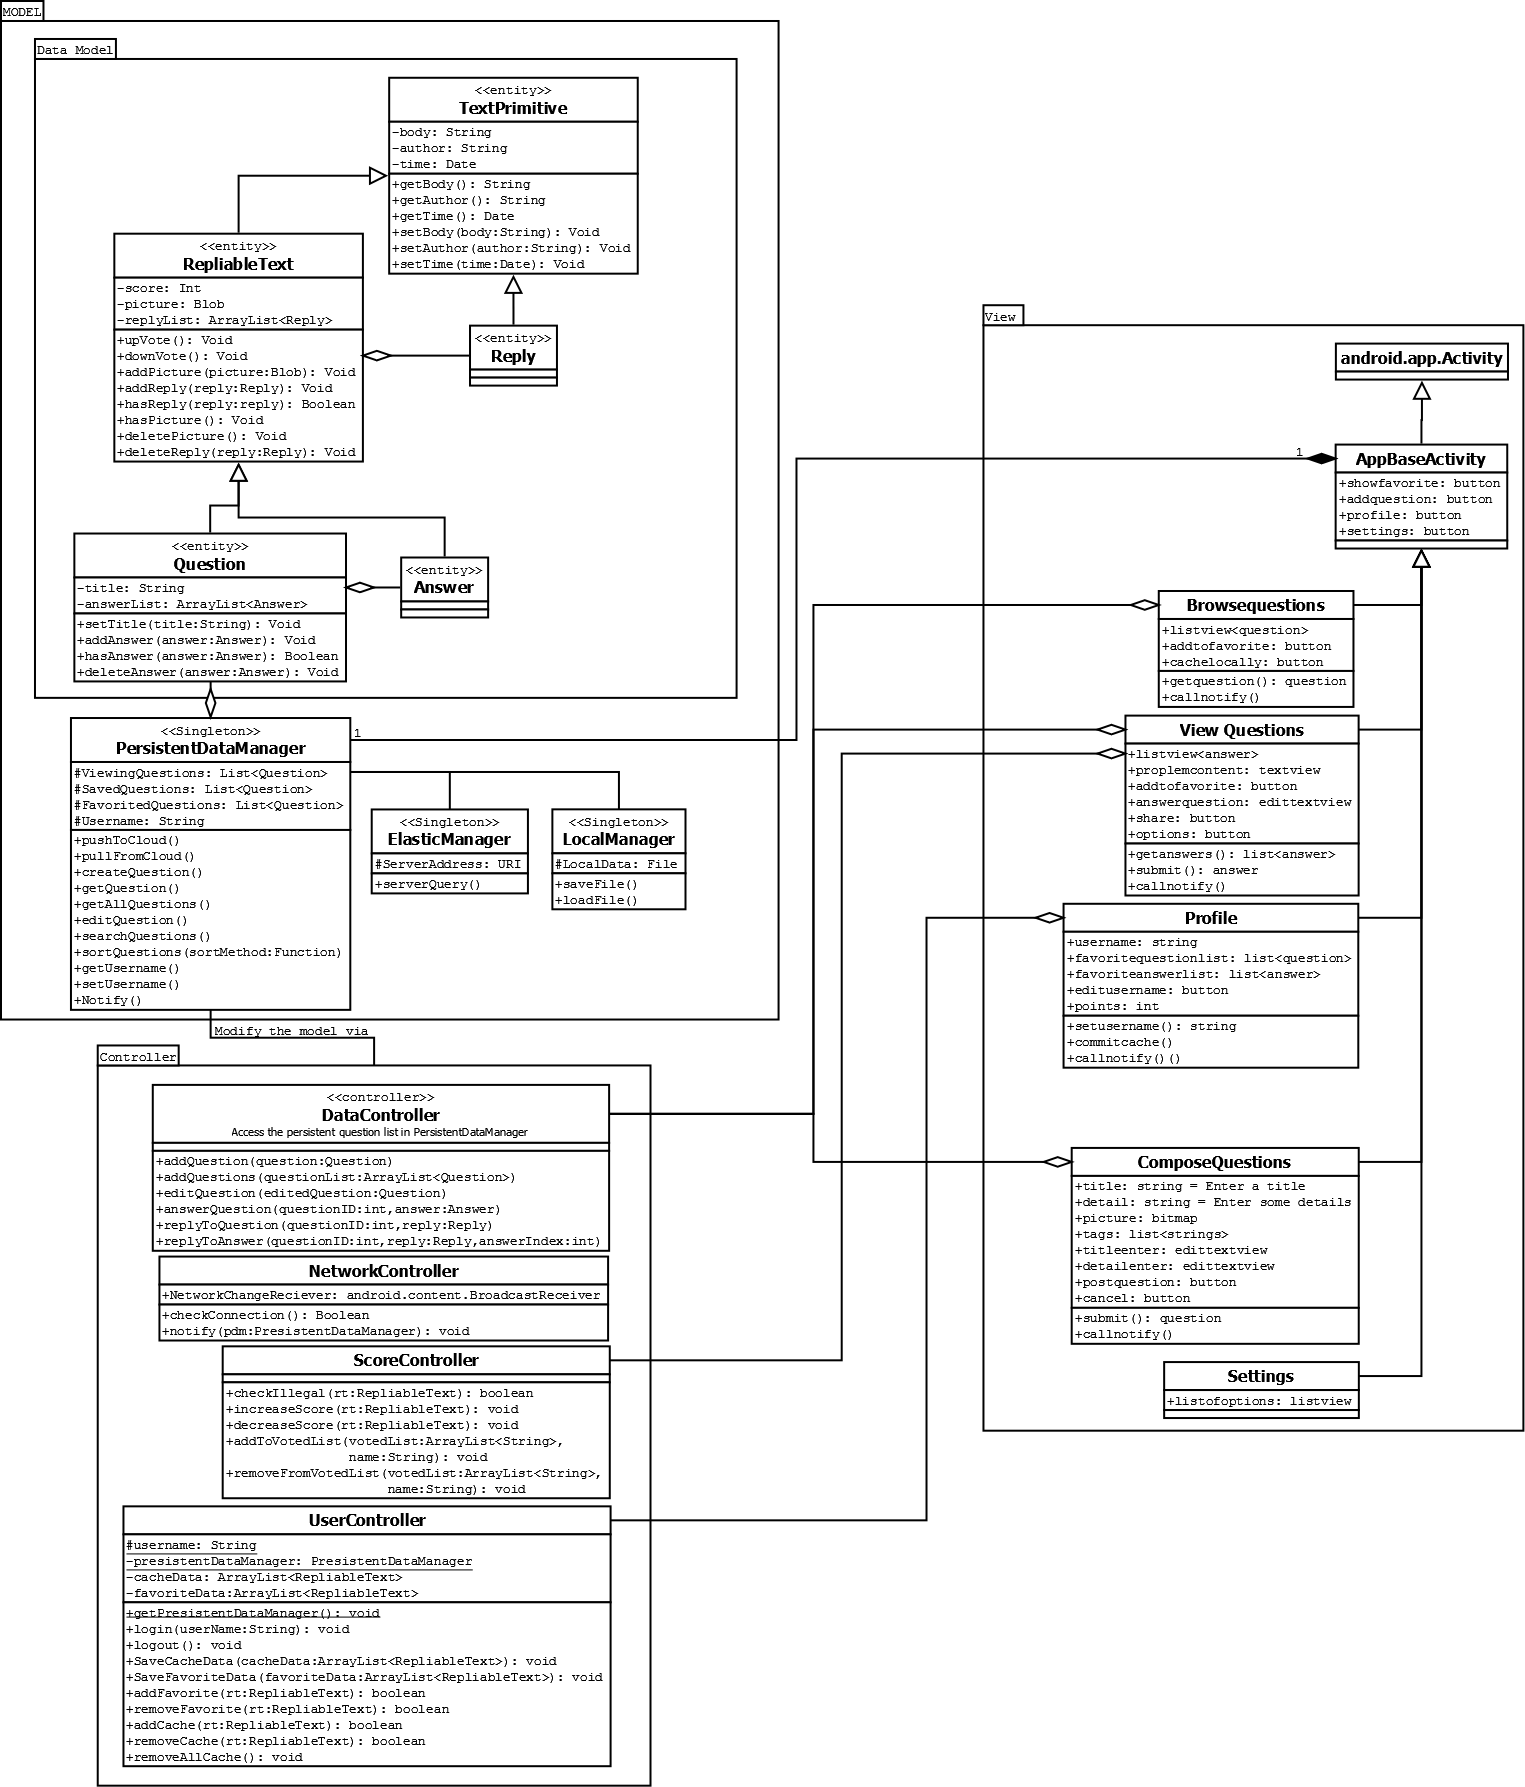
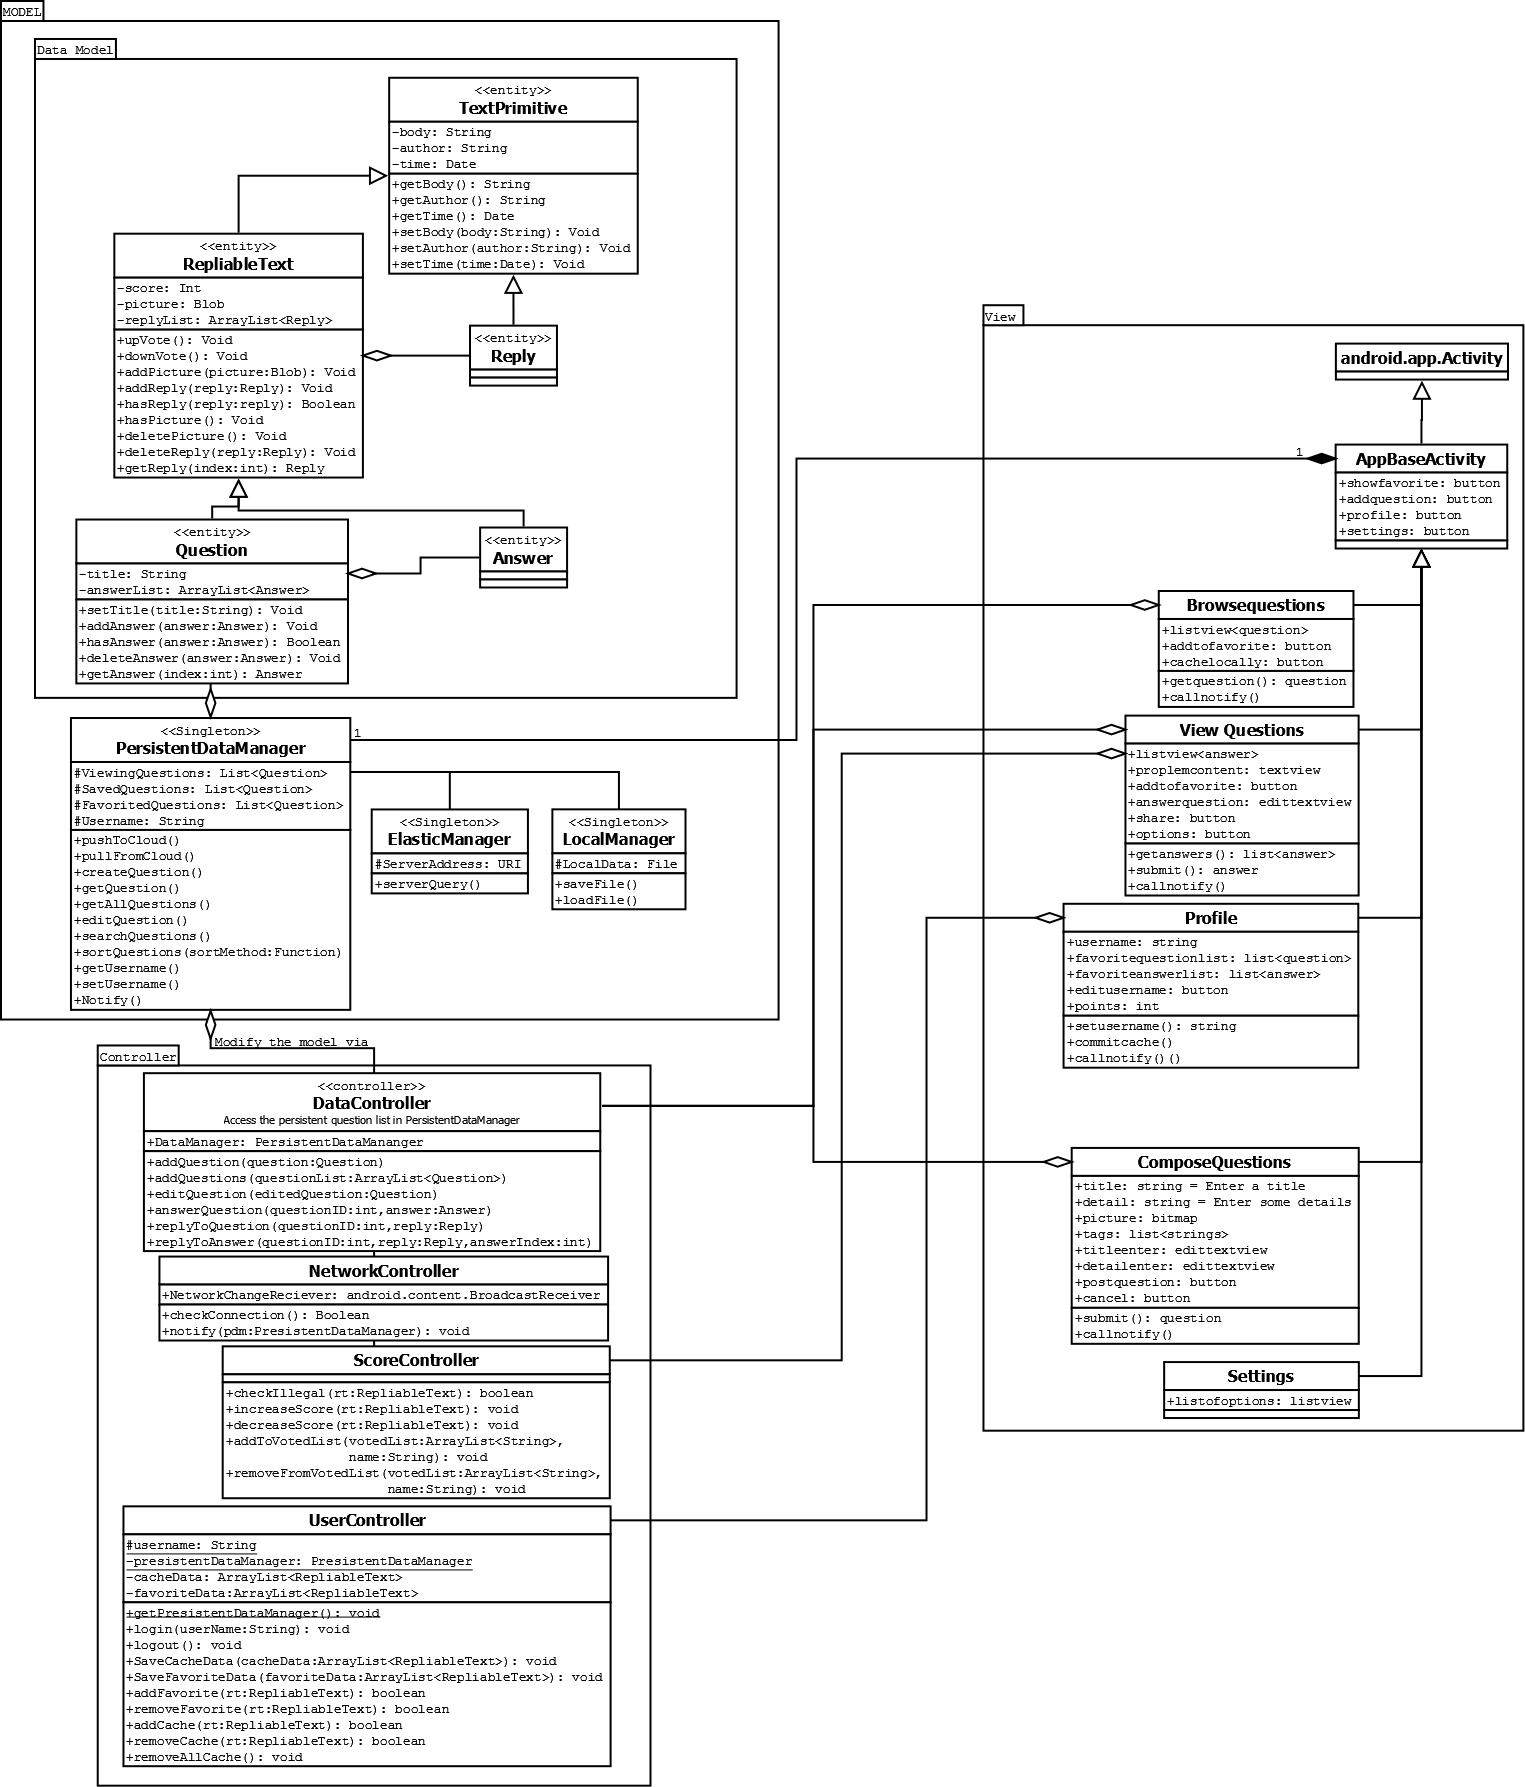
Test case 1-4 consistency update, data controller update, UML update and split testcase 1-4 to use ActivityInstrumentationTestCase2

Changed region(s): [[0.0925, 0.554, 0.5239, 0.7079], [0.0308, 0.2462, 0.3698, 0.4001]]

diff --git a/LortAnswersTestTest/src/com/github/cmput301f14t11/teamlort/test/UseCase2And3Test.java b/LortAnswersTestTest/src/com/github/cmput301f14t11/teamlort/test/UseCase2And3Test.java
@@ -1,0 +1,82 @@
+package com.github.cmput301f14t11.teamlort.test;
+
+import java.util.ArrayList;
+
+import com.github.cmput301f14t11.teamlort.Answer;
+import com.github.cmput301f14t11.teamlort.ComposeQuestionActivity;
+import com.github.cmput301f14t11.teamlort.DataController;
+import com.github.cmput301f14t11.teamlort.Question;
+import com.github.cmput301f14t11.teamlort.QuestionViewActivity;
+import com.github.cmput301f14t11.teamlort.Reply;
+import com.github.cmput301f14t11.teamlort.Model.PersistentDataManager;
+
+import android.graphics.Bitmap;
+import android.test.ActivityInstrumentationTestCase2;
+
+import junit.framework.TestCase;
+
+public class UseCase2And3Test extends ActivityInstrumentationTestCase2<QuestionViewActivity> {
+	
+	public UseCase2And3Test(String name) {
+		super(QuestionViewActivity.class);
+	}
+	
+	public void testCaseTwo(){
+		//Test case for Use Case #2: User views a question and its answers
+		PersistentDataManager dataManager = PersistentDataManager.getInstance();
+		DataController dataController = new DataController();
+		String title = "What was Lancer's noble phantasm?";
+		String desc = "His spear did weird stuff, I'm confused";
+		Question question = new Question(title);
+		question.setBody(desc);
+		dataController.addQuestion(question);
+		
+		//Title and description must be retrievable for display.
+		Question testQuestion = dataManager.getQuestion(0);
+		assertTrue("Title doesn't match title", question.getTitle() == title);
+		assertTrue("Description doesn't match desc", question.getBody() == desc);
+		
+		Answer answer = new Answer("It reverses cause and effect");
+		Answer answer2 = new Answer("Ufotable too flashy");
+		question.addAnswer(answer);
+		question.addAnswer(answer2);
+		
+		//Any answers the question has must be retrievable for display.
+		ArrayList<Answer> list1 = question.getAnswerList();
+		assertTrue("Question does not have answer", list1.get(0) == answer);
+		assertTrue("Question does not have answer2", list1.get(1) == answer2);
+	}
+	
+	public void testCaseThree(){
+		//Test case for Use Case #3: User views replies to an answer or question
+		String title = "How do I fly?";
+		String rep = "this is incredibly stupid";
+		String rep2 = "this is incredibly silly";
+		Question question = new Question(title);
+		Reply reply = new Reply(rep);
+		Reply reply2 = new Reply(rep2);
+		question.addReply(reply);
+		question.addReply(reply2);
+		//Test getting replies from a question
+		ArrayList<Reply> replies = question.getReplyList();
+		assertTrue("Answer reply doesn't match reply3", replies.get(0) == reply);
+		assertTrue("Answer reply2 doesn't match reply4", replies.get(1) == reply2);
+		
+		String rep3 = "He's going to fly for the portal again!";
+		String rep4 = "John what the heck are you doing.";
+		Reply reply3 = new Reply(rep3);
+		Reply reply4 = new Reply(rep4);
+		Answer answer = new Answer("Use the jetpack");
+		answer.addReply(reply3);
+		answer.addReply(reply4);
+		question.addAnswer(answer);
+		
+		//Test getting replies from an answer
+		Answer testAnswer = question.getAnswer(0);
+		ArrayList<Reply> replies2 = testAnswer.getReplyList();
+		assertTrue("Answer reply doesn't match reply3", replies2.get(0) == reply3);
+		assertTrue("Answer reply2 doesn't match reply4", replies2.get(1) == reply4);
+		
+	}
+	
+}

diff --git a/LortAnswersTestTest/src/com/github/cmput301f14t11/teamlort/test/UseCase1Test.java b/LortAnswersTestTest/src/com/github/cmput301f14t11/teamlort/test/UseCase1Test.java
@@ -1,0 +1,46 @@
+package com.github.cmput301f14t11.teamlort.test;
+
+import java.util.ArrayList;
+
+import com.github.cmput301f14t11.teamlort.DataController;
+import com.github.cmput301f14t11.teamlort.Question;
+import com.github.cmput301f14t11.teamlort.Model.PersistentDataManager;
+
+import android.test.ActivityInstrumentationTestCase2;
+
+public class UseCase1Test extends ActivityInstrumentationTestCase2<BrowseQuestionsActivity> {
+
+	public UseCase1Test() {
+		super(BrowseQuestionsActivity.class);
+	}
+	
+	public void testCaseOne(){
+		//Test case for Use Case #1: User browses questions
+		PersistentDataManager dataManager = PersistentDataManager.getInstance();
+		DataController dataController = new DataController();
+		//If there are no questions, return no questions.
+		ArrayList<Question> emptyList = dataManager.getAllQuestions();
+		assertTrue("Data manager returned questions when there should be none", emptyList.size() == 0);
+		
+		Question question = new Question("Why are there two amulets?");
+		Question question2 = new Question("Didn't Archer already return amulet?");
+		Question question3 = new Question("How does Shirou have amulet?");
+		Question question4 = new Question("Are these spoilers for F/SN?");
+		Question question5 = new Question("Which route is this?");
+		dataController.addQuestion(question);
+		dataController.addQuestion(question2);
+		dataController.addQuestion(question3);
+		dataController.addQuestion(question4);
+		dataController.addQuestion(question5);
+		//App can retrieve a list of questions from PersistentDataManager
+		ArrayList<Question> partialList = dataManager.getQuestions(0, 2);
+		assertTrue("Partial list does not contain question 1 where it should be", partialList.get(0) == question);
+		assertTrue("Partial list does not contain question 2 where it should be", partialList.get(1) == question2);
+		assertTrue("Partial list does not contain question 3 where it should be", partialList.get(2) == question3);
+		//App can add additional questions to current question list.
+		partialList.append(dataManager.getQuestions(2, 4));
+		assertTrue("Partial list does not contain question 4 where it should be", partialList.get(3) == question2);
+		assertTrue("Partial list does not contain question 5 where it should be", partialList.get(4) == question3);
+	}
+
+}

diff --git a/LortAnswersTestTest/src/com/github/cmput301f14t11/teamlort/test/UseCase4Test.java b/LortAnswersTestTest/src/com/github/cmput301f14t11/teamlort/test/UseCase4Test.java
@@ -1,0 +1,42 @@
+package com.github.cmput301f14t11.teamlort.test;
+
+import com.github.cmput301f14t11.teamlort.ComposeQuestionActivity;
+import com.github.cmput301f14t11.teamlort.Question;
+
+import android.content.Context;
+import android.graphics.Bitmap;
+import android.graphics.drawable.BitmapDrawable;
+import android.graphics.drawable.Drawable;
+import android.test.ActivityInstrumentationTestCase2;
+
+public class UseCase4Test extends ActivityInstrumentationTestCase2<ComposeQuestionActivity> {
+
+	public UseCase4Test(String name) {
+		super(ComposeQuestionActivity.class);
+	}
+	
+	public void testCaseFour(){
+		//Test case for Use Case #4: Author makes a question
+		
+		//Test that user can enter title into question
+		String title = "How do I fly?";
+		Question question = new Question(title);
+		assertTrue("title doesn't match title", question.getTitle() == title);
+		
+		//Test that user can enter description into question
+		String desc = "I have some feathers halp";
+		assertTrue("Desc not empty by default", question.getBody() == "");
+		question.setBody(desc);
+		assertTrue("Description doesn't match desc", question.getBody() == desc);
+		
+		//Test add image to question.
+		ComposeQuestionActivity activity = (ComposeQuestionActivity) getActivity();
+		
+		Bitmap bitmap = Bitmap.createBitmap(400, 400, Bitmap.Config.ARGB_8888 );
+		Drawable drawable = new BitmapDrawable(activity.getResources(), bitmap);
+		question.addPicture(drawable);
+		assertTrue("Bitmap does not match bitmap or getImage failed", question.getPicture() == drawable);
+		
+	}
+
+}

diff --git a/Project/src/com/github/cmput301f14t11/teamlort/DataController.java b/Project/src/com/github/cmput301f14t11/teamlort/DataController.java
@@ -2,13 +2,16 @@ package com.github.cmput301f14t11.teamlort;
 
 import java.util.ArrayList;
 
+import com.github.cmput301f14t11.teamlort.Model.PersistentDataManager;
 import com.github.cmput301f14t11.teamlort.test.Question;
 
 public class DataController {
 
-	PersistentDataManager dataManager = PersistentDataManager.getInstance();
+	PersistentDataManager dataManager;
 	
 	public DataController(){
+		
+		dataManager = PersistentDataManager.getInstance();
 		
 	}
 	
